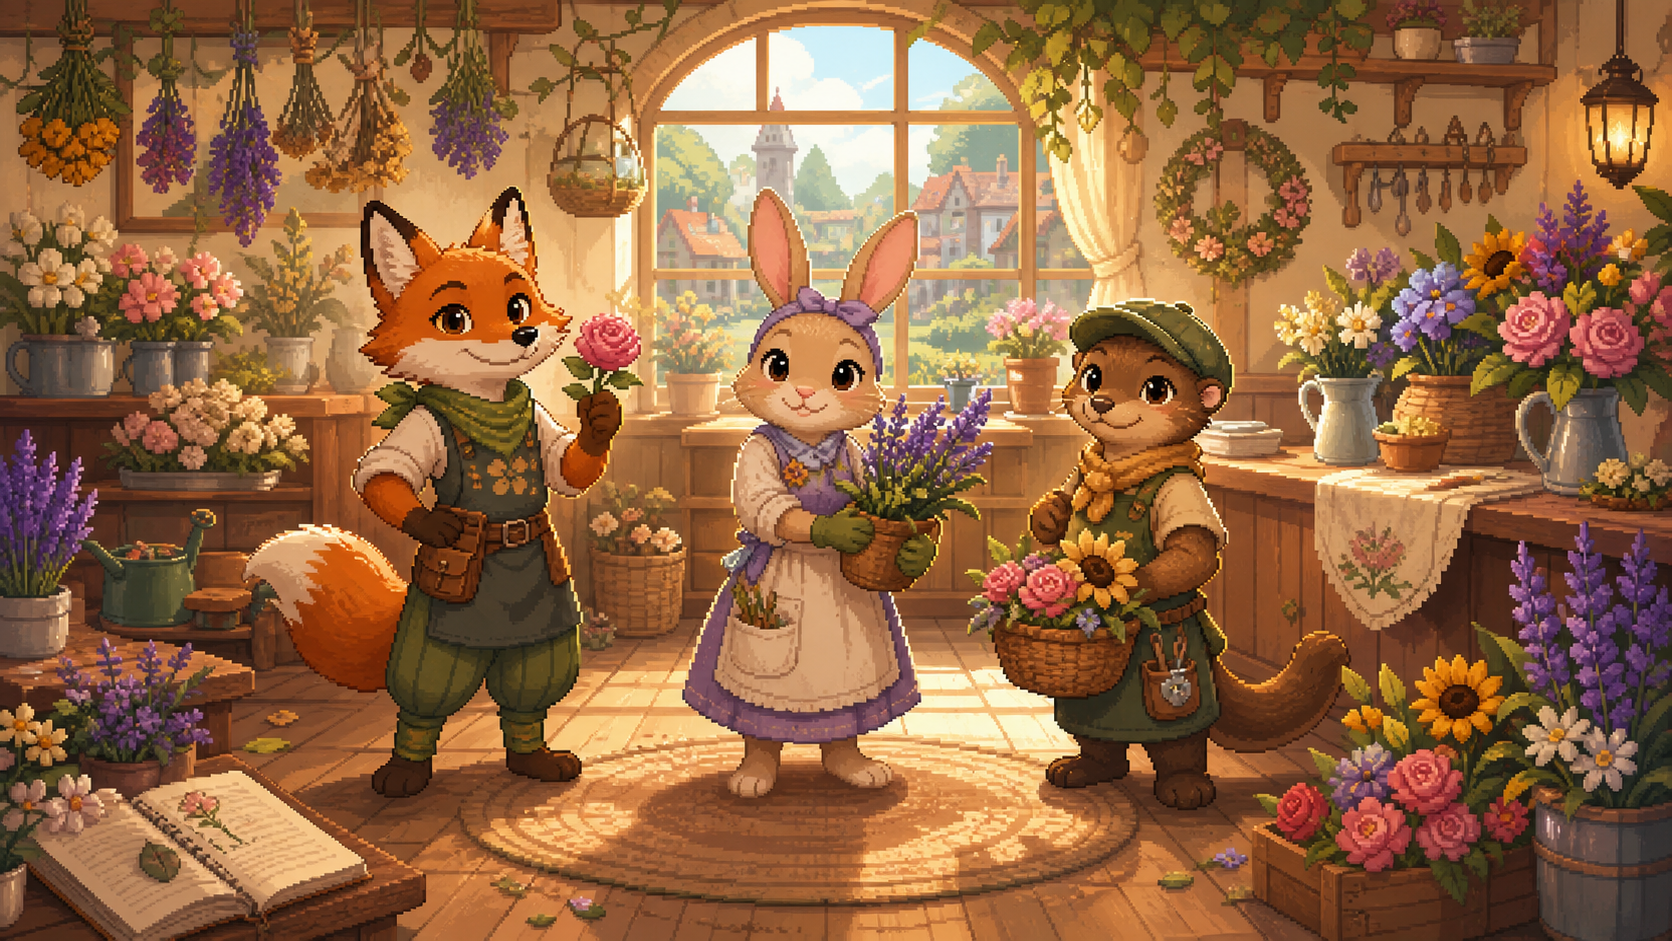
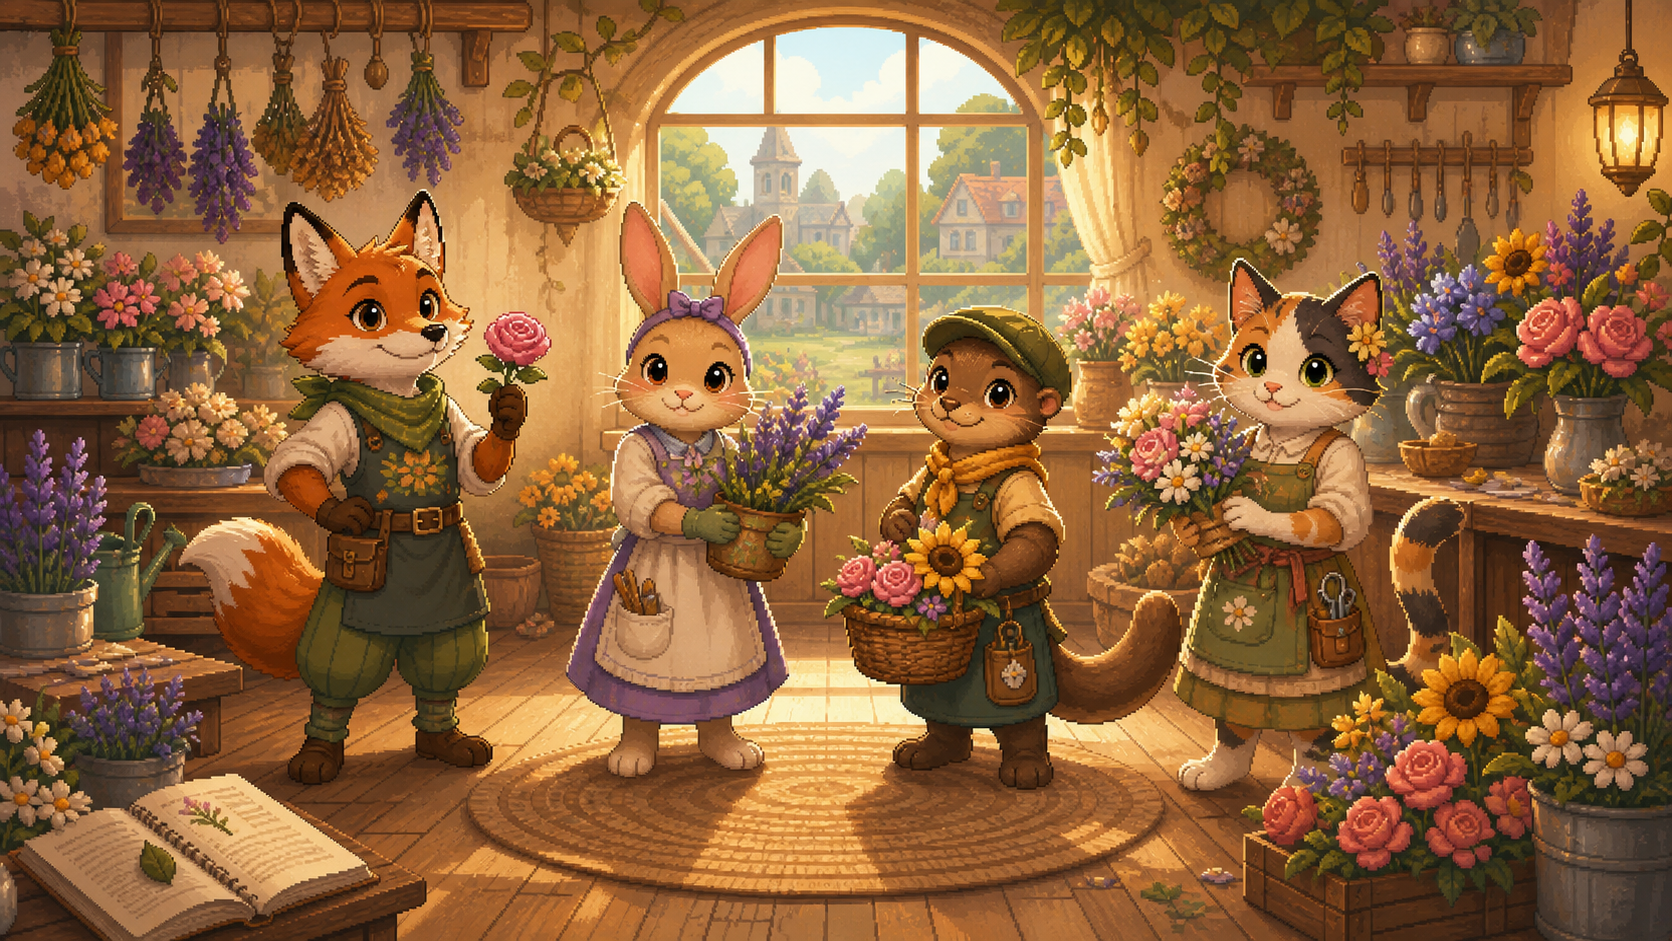
Add calico cat character choice

diff --git a/app.js b/app.js
@@ -45,6 +45,7 @@ const species = {
   Fox: { color: "#d98245", icon: "fox", passive: "+10% hybrid discovery chance", hybridBonus: 0.1, portraits: { Female: "assets/characters/fox-female.png", Male: "assets/characters/fox-male.png" } },
   Rabbit: { color: "#f2e7d5", icon: "rabbit", passive: "+10% flower growth speed", growthBonus: 0.1, portraits: { Female: "assets/characters/rabbit-female.png", Male: "assets/characters/rabbit-male.png" } },
   Mongoose: { color: "#ba855b", icon: "mongoose", passive: "+10% shop revenue", revenueBonus: 0.1, portraits: { Female: "assets/characters/mongoose-female.png", Male: "assets/characters/mongoose-male.png" } },
+  "Calico Cat": { color: "#d69a54", icon: "calico-cat", passive: "+10% flower quality chance", qualityBonus: 0.1, portraits: { Female: "assets/characters/calico-cat-female.png", Male: "assets/characters/calico-cat-male.png" } },
 };
 
 const flowerFamilies = [
@@ -506,6 +507,7 @@ function animalTypeText(name) {
     Fox: "Animal type: clever hybrid seeker",
     Rabbit: "Animal type: gentle garden sprinter",
     Mongoose: "Animal type: compact florist merchant",
+    "Calico Cat": "Animal type: careful quality curator",
   }[name] || "Animal type: Bloomhaven resident";
 }
 
@@ -696,7 +698,7 @@ function renderCharacter() {
 }
 
 function characterExpression(speciesName, gender = "Female", expression = "happy") {
-  const slug = `${speciesName}-${gender}-${expression}`.toLowerCase();
+  const slug = `${speciesName}-${gender}-${expression}`.toLowerCase().replace(/[^a-z0-9]+/g, "-").replace(/^-|-$/g, "");
   return `assets/characters/expressions/${slug}.png`;
 }
 
@@ -2606,6 +2608,7 @@ function rollQuality(name) {
   if (activeEffect("growth")) score += 0.05;
   if (state.species === "Rabbit") score += 0.04;
   if (state.species === "Fox" && flower.recipe) score += 0.05;
+  score += species[state.species]?.qualityBonus || 0;
   state.nextQualityBoost = false;
   if (score >= 0.96) return "Masterpiece";
   if (score >= 0.78) return "Premium";

diff --git a/styles.css b/styles.css
@@ -4165,10 +4165,10 @@ body {
   position: relative;
   z-index: 2;
   display: grid;
-  grid-template-columns: repeat(3, minmax(0, 1fr));
+  grid-template-columns: repeat(4, minmax(0, 1fr));
   align-items: end;
-  gap: clamp(8px, 2vw, 18px);
-  width: min(980px, calc(100% - 24px));
+  gap: clamp(5px, 1.2vw, 14px);
+  width: min(1120px, calc(100% - 24px));
   margin: 0 auto;
   padding: 2vh 0 1vh;
 }
@@ -4188,7 +4188,7 @@ body {
 }
 
 .intro-character-card img {
-  width: min(112%, 330px);
+  width: min(118%, 300px);
   height: min(44vh, 430px);
   object-fit: contain;
   object-position: bottom center;
@@ -4316,7 +4316,7 @@ body {
 
   .character-stage {
     width: calc(100% - 12px);
-    gap: 3px;
+    gap: 2px;
     padding-top: 0;
   }
 
@@ -4325,7 +4325,7 @@ body {
   }
 
   .intro-character-card img {
-    width: 128%;
+    width: 136%;
     height: 38vh;
   }
 
